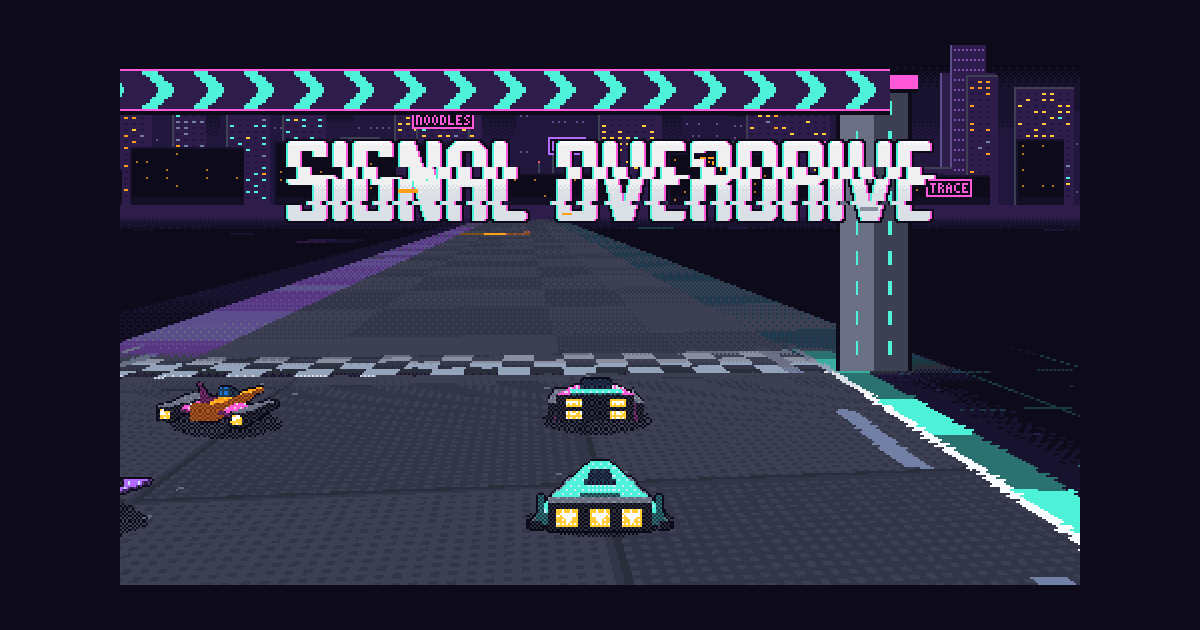
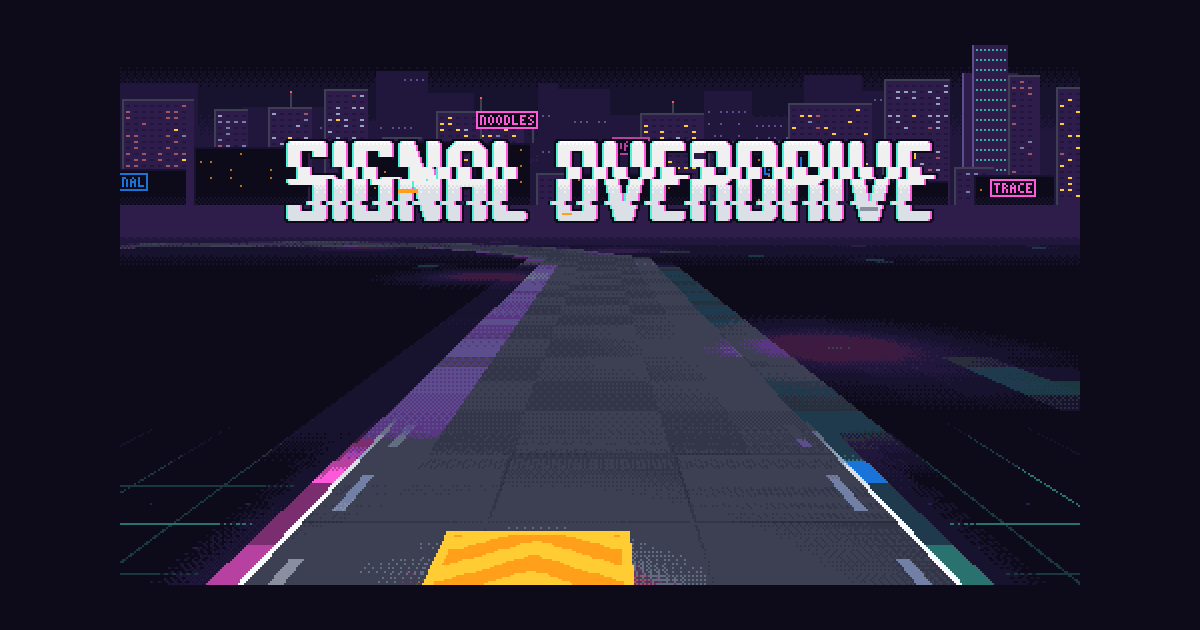
og.png from the game's own title frame, with effects
The link card was the bare title frame captured before the effects pass
with the logo laid on top. It is now the title screen as the game draws
it: docs/logo/frames/title-og.png, a capture of the web build's title with
?nohud (the logo drawn by the game, no prompt; its logo matches the atlas
on every pixel, and every pixel is a palette colour), at 2x on the
1200x630 ground. gen-logo.mjs --export takes it when it is there.

site/shots/og.png is the same file as docs/logo/site/og.png, and the
page's og:image:alt and twitter:image:alt describe the new picture.

diff --git a/site/index.html b/site/index.html
@@ -14,12 +14,12 @@
   <meta property="og:image:type" content="image/png">
   <meta property="og:image:width" content="1200">
   <meta property="og:image:height" content="630">
-  <meta property="og:image:alt" content="SIGNAL OVERDRIVE in white pixel letters split with cyan and magenta, under the uplink gate's chevrons, over the starting grid where Zero's cyan machine waits behind a rival, with another machine to its left.">
+  <meta property="og:image:alt" content="SIGNAL OVERDRIVE in white pixel letters split with cyan and magenta, over the night city's skyline and its neon signs, above the track curving away into the dark, a boost pad's chevrons glowing in the near lane.">
   <meta name="twitter:card" content="summary_large_image">
   <meta name="twitter:title" content="Signal Overdrive">
   <meta name="twitter:description" content="The city's wire belongs to Gibson. The air doesn't. A Mode 7 racer in Crash The Stack's world.">
   <meta name="twitter:image" content="https://signaloverdrive.net/shots/og.png">
-  <meta name="twitter:image:alt" content="SIGNAL OVERDRIVE in white pixel letters split with cyan and magenta, under the uplink gate's chevrons, over the starting grid where Zero's cyan machine waits behind a rival, with another machine to its left.">
+  <meta name="twitter:image:alt" content="SIGNAL OVERDRIVE in white pixel letters split with cyan and magenta, over the night city's skyline and its neon signs, above the track curving away into the dark, a boost pad's chevrons glowing in the near lane.">
   <link rel="canonical" href="https://signaloverdrive.net/">
   <link rel="icon" href="/favicon.ico" sizes="16x16 32x32">
   <link rel="icon" type="image/png" sizes="32x32" href="/favicon.png">
